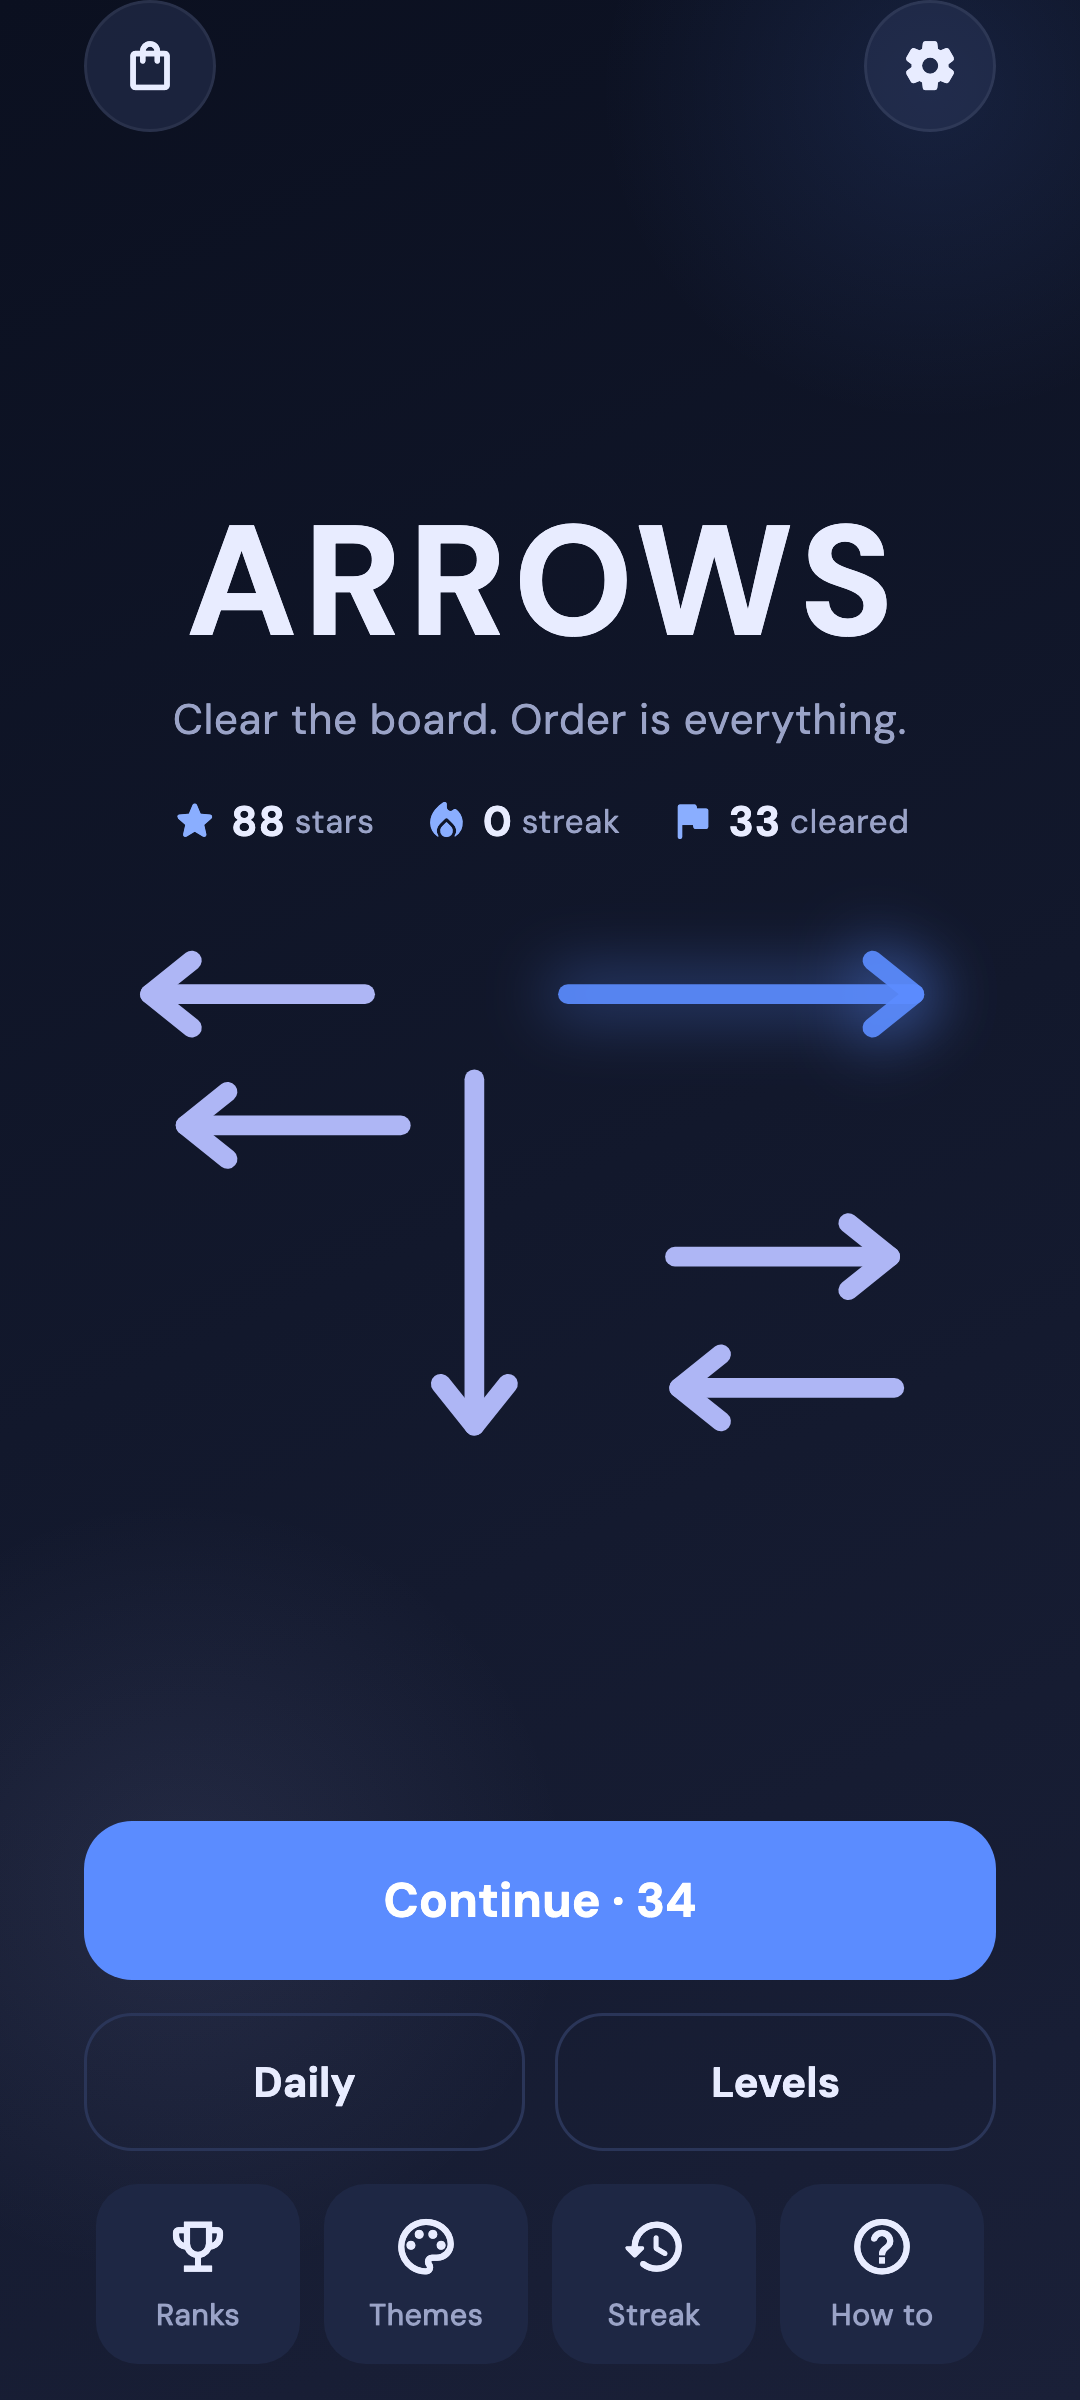
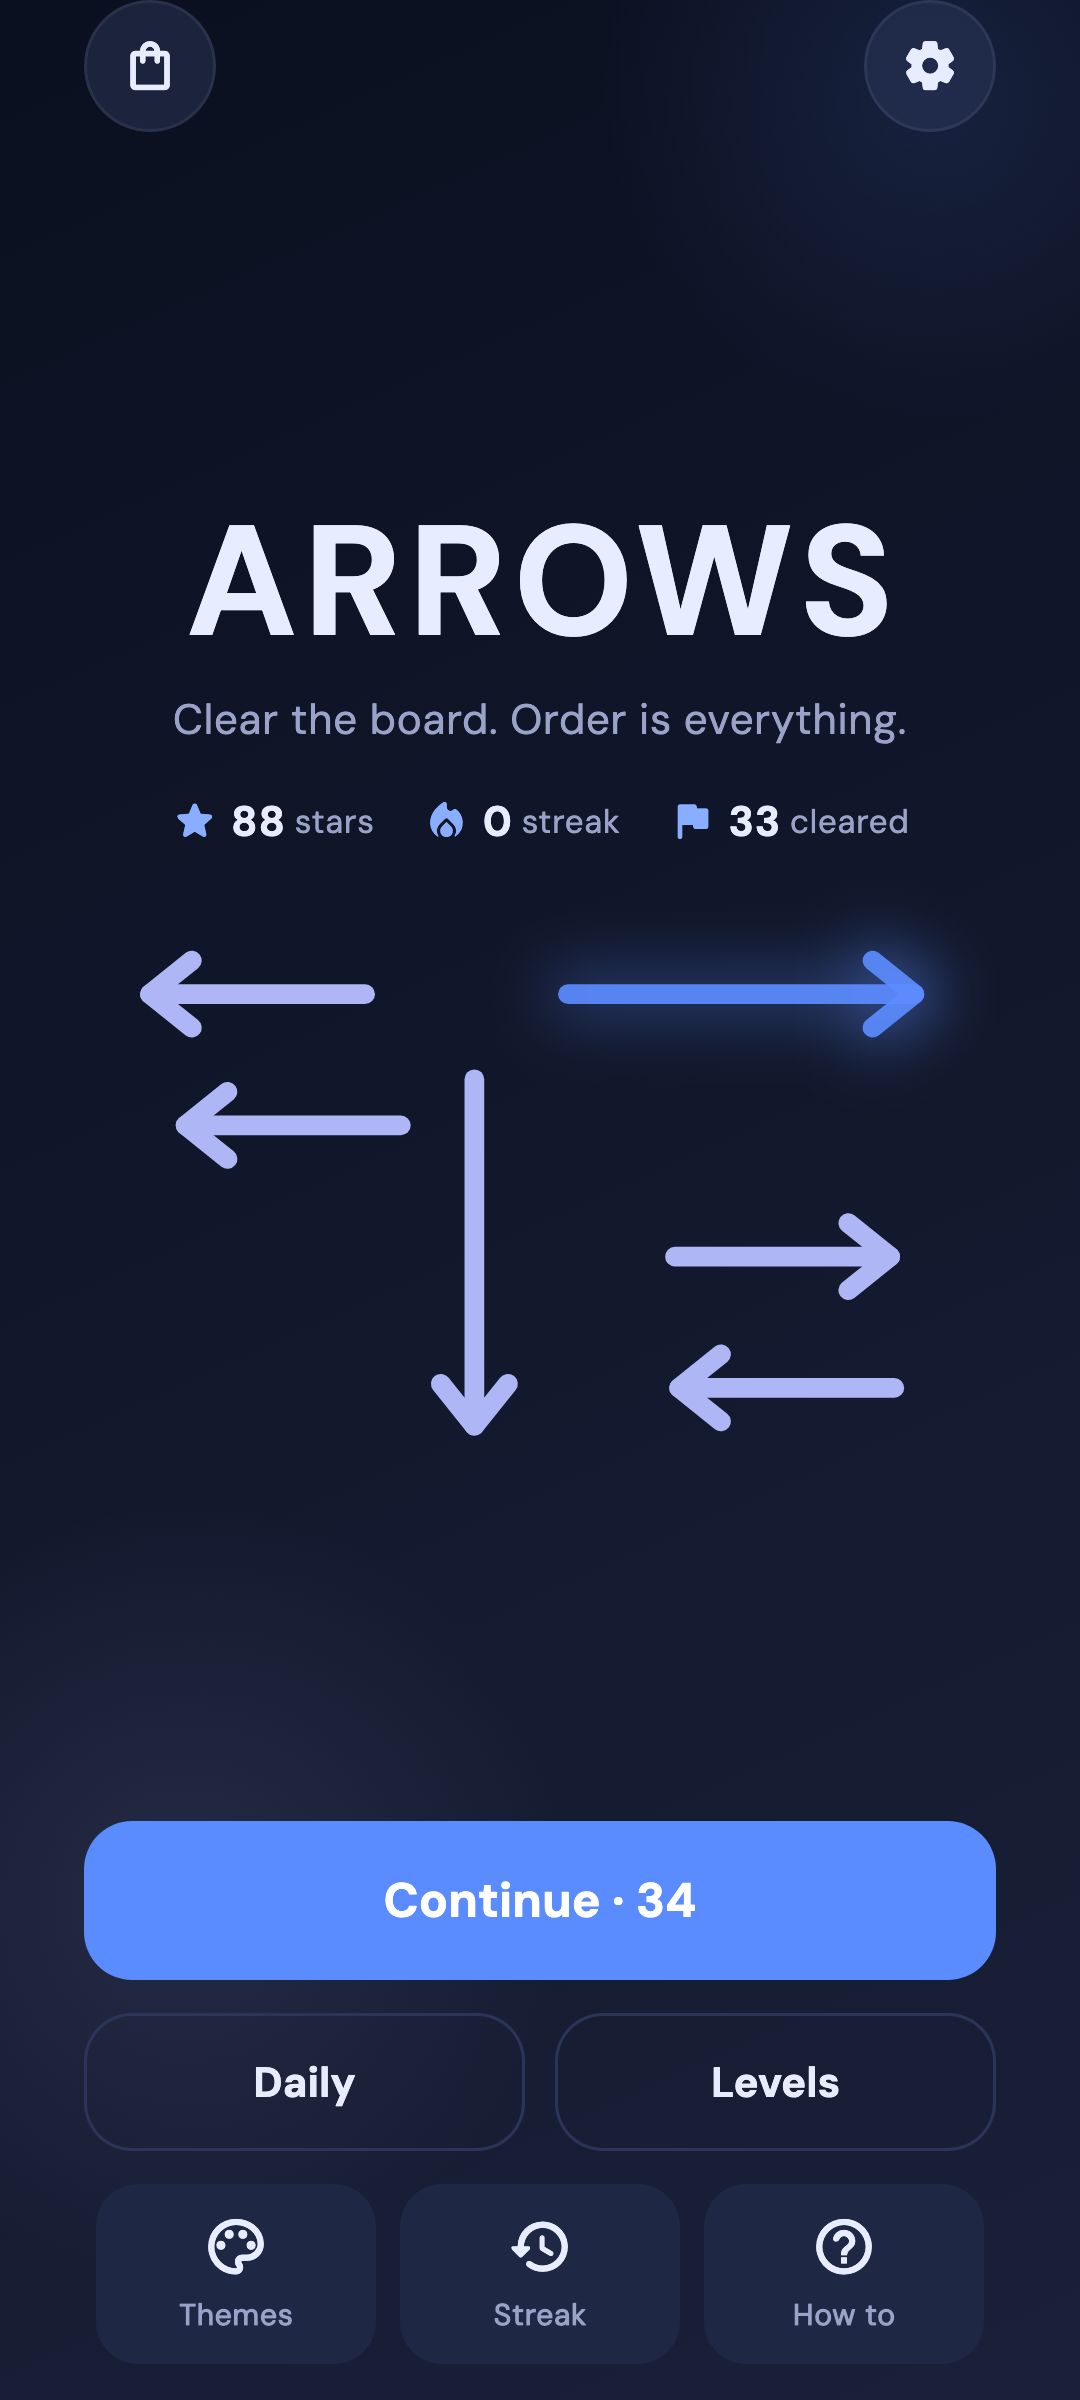
Take the leaderboard out of 1.0
The board is local to the device and seeds three invented players — Nova, Kai
and Mira — that sit beside the real player as though they were other people.
That is not something to ship, and a ranking against nobody is not worth
shipping either.

Remove both entry points, from the home screen and from Settings. The screen
and service stay in the tree, with notes on what has to change first, so a real
online board can be added later — which is the right time for it anyway, once
there are players to rank against.

Regenerate the home screenshots: the quick-action row is now Themes, Streak and
How to.

diff --git a/lib/screens/settings_screen.dart b/lib/screens/settings_screen.dart
@@ -6,7 +6,6 @@ import '../services/consent_service.dart';
 import '../theme/app_theme.dart';
 import '../widgets/app_chrome.dart';
 import '../widgets/arrow_glyph.dart';
-import 'leaderboard_screen.dart';
 import 'shop_screen.dart';
 import 'themes_screen.dart';
 
@@ -154,17 +153,6 @@ class _SettingsScreenState extends State<SettingsScreen> {
                       onTap: () => Navigator.push(
                         context,
                         MaterialPageRoute(builder: (_) => const ThemesScreen()),
-                      ),
-                    ),
-                    const SizedBox(height: 10),
-                    _LinkTile(
-                      icon: Icons.emoji_events_outlined,
-                      title: 'Leaderboard',
-                      subtitle: 'Stars and boards cleared',
-                      onTap: () => Navigator.push(
-                        context,
-                        MaterialPageRoute(
-                            builder: (_) => const LeaderboardScreen()),
                       ),
                     ),
                     if (_consentFormAvailable) ...[

diff --git a/lib/screens/home_screen.dart b/lib/screens/home_screen.dart
@@ -12,7 +12,6 @@ import '../widgets/arrow_glyph.dart';
 import 'daily_history_screen.dart';
 import 'game_screen.dart';
 import 'how_to_play_screen.dart';
-import 'leaderboard_screen.dart';
 import 'level_select_screen.dart';
 import 'settings_screen.dart';
 import 'shop_screen.dart';
@@ -216,11 +215,6 @@ class _HomeScreenState extends State<HomeScreen> {
                           const SizedBox(height: 10),
                           Row(
                             children: [
-                              _Quick(
-                                icon: Icons.emoji_events_outlined,
-                                label: 'Ranks',
-                                onTap: () => _open(const LeaderboardScreen()),
-                              ),
                               _Quick(
                                 icon: Icons.palette_outlined,
                                 label: 'Themes',

diff --git a/lib/services/leaderboard_service.dart b/lib/services/leaderboard_service.dart
@@ -21,6 +21,13 @@ class LeaderboardEntry {
   final bool isYou;
 }
 
+/// Unused in 1.0 — [LeaderboardScreen] is the only caller and nothing
+/// navigates to it.
+///
+/// Before this ships, the invented entries in [_upsertLocal] have to go: they
+/// appear beside the player as though they were other people. Ranking only
+/// means anything against a real backend, so wire one up rather than reviving
+/// this as-is.
 class LeaderboardService {
   LeaderboardService._();
   static final LeaderboardService instance = LeaderboardService._();

diff --git a/lib/screens/leaderboard_screen.dart b/lib/screens/leaderboard_screen.dart
@@ -10,6 +10,10 @@ import '../theme/app_theme.dart';
 import '../widgets/app_chrome.dart';
 import '../widgets/arrow_glyph.dart';
 
+/// Not reachable in 1.0 — nothing navigates here. The board it shows is local
+/// to the device and seeded with invented players, which is not something to
+/// put in front of a store reviewer or a real player. Kept whole so a genuine
+/// online board can be wired up for a later release; see [LeaderboardService].
 class LeaderboardScreen extends StatefulWidget {
   const LeaderboardScreen({super.key});
 

diff --git a/README.md b/README.md
@@ -11,7 +11,6 @@ off; tap a blocked one and it costs a heart.
 - 80 levels (Easy → Expert) + daily challenge (history + streak)
 - Multi-cell arrows, 3 hearts per board, progress bar, optional cell grid
 - Themes (free + premium pack)
-- Leaderboard (local → Firebase when configured)
 - Ads (test IDs) + IAP (Remove Ads, Theme Pack)
 - Sound, haptics, hints, undo, stars
 
